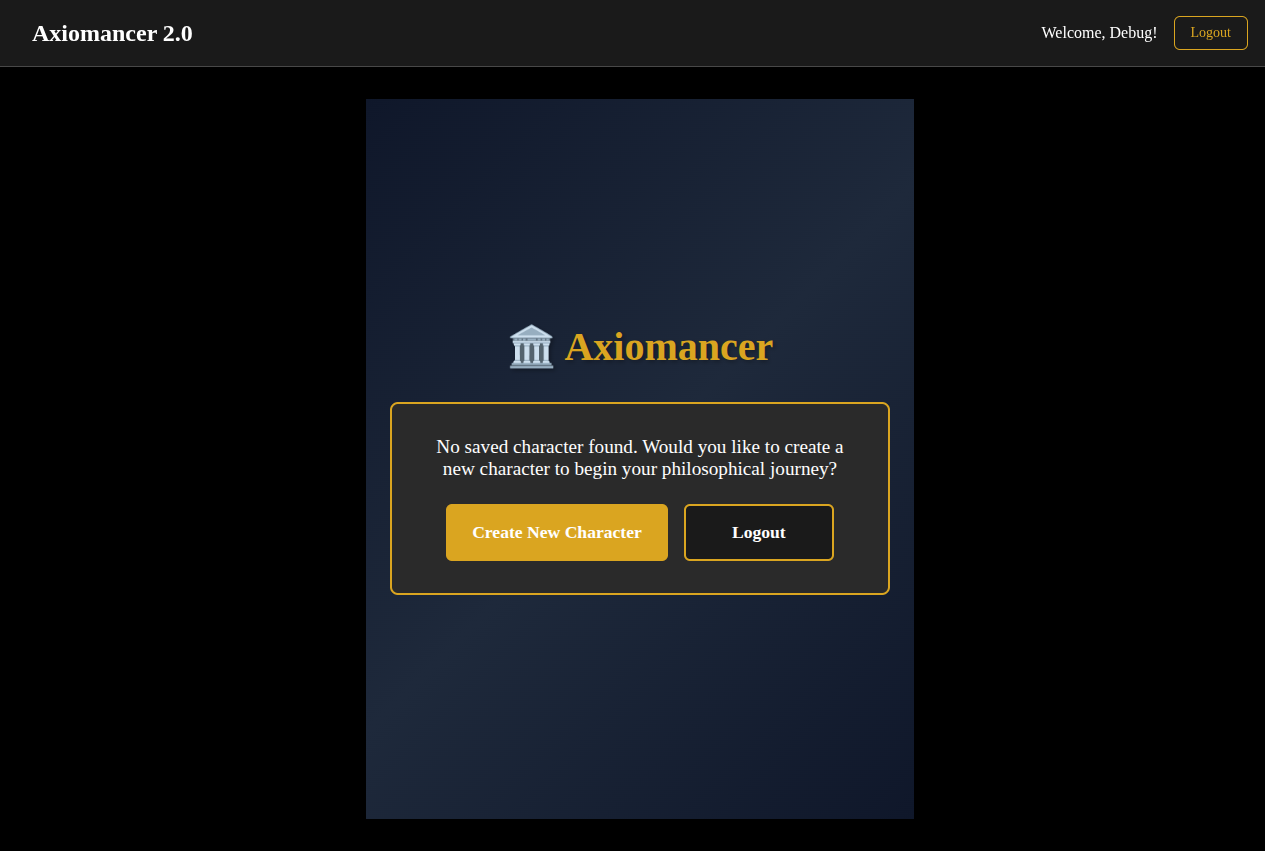
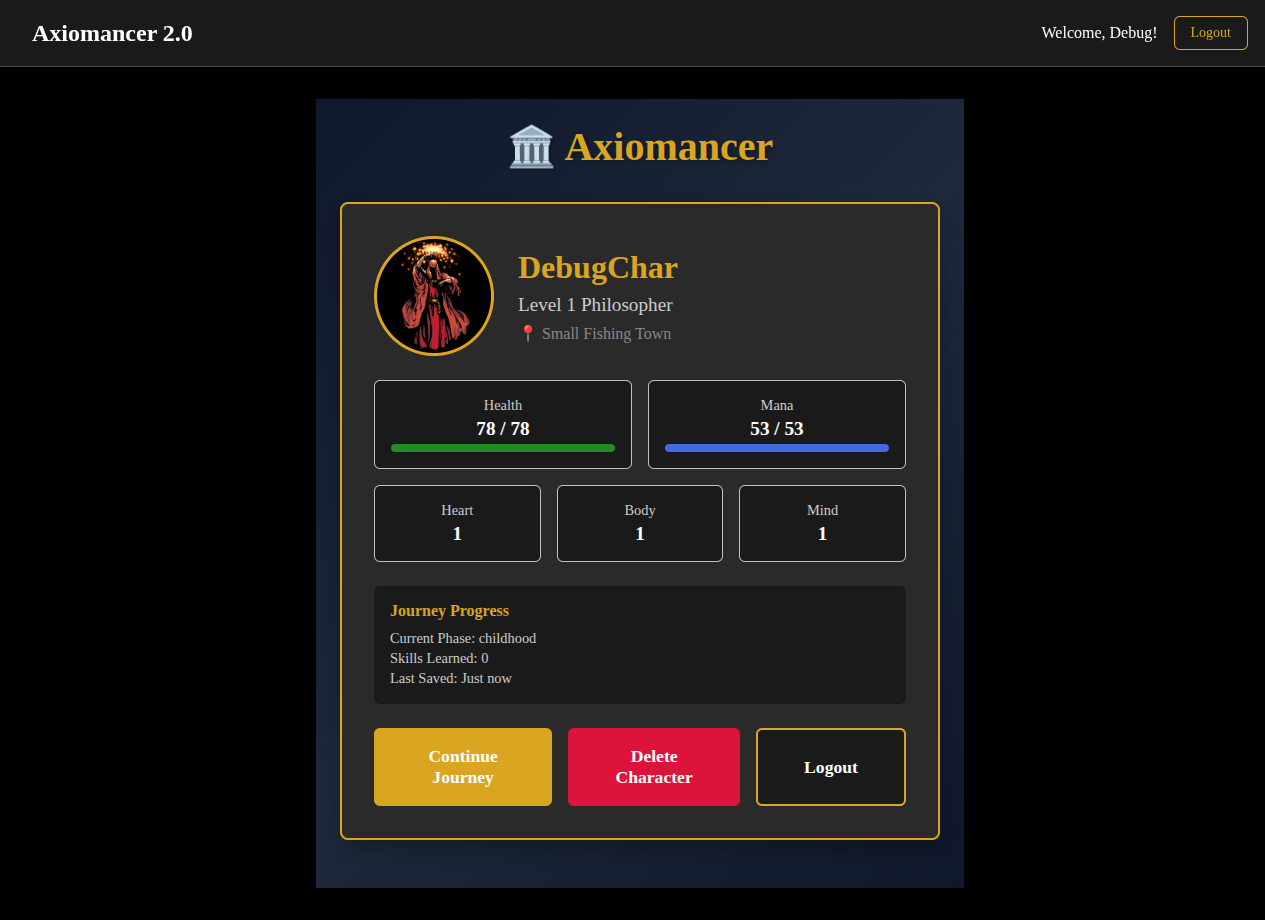
Fix issue with saving and auth

Changed region(s): [[0.0, 0.0, 1.0, 0.9777]]

diff --git a/axiomancer-frontend/playwright-report/index.html b/axiomancer-frontend/playwright-report/index.html
@@ -73,4 +73,4 @@ Error generating stack: `+u.message+`
     <div id='root'></div>
   </body>
 </html>
[2 lines of base64/hex data omitted]

diff --git a/axiomancer-frontend/src/pages/CharacterSelectionPage.tsx b/axiomancer-frontend/src/pages/CharacterSelectionPage.tsx
@@ -401,17 +401,17 @@ export const CharacterSelectionPage: React.FC = () => {
             <div className="stats-row">
               <StatCard>
                 <div className="stat-label">Heart</div>
-                <div className="stat-value">{savedCharacter.character.baseStats.heart}</div>
+                <div className="stat-value">{savedCharacter.character.baseStats?.heart || 10}</div>
               </StatCard>
 
               <StatCard>
                 <div className="stat-label">Body</div>
-                <div className="stat-value">{savedCharacter.character.baseStats.body}</div>
+                <div className="stat-value">{savedCharacter.character.baseStats?.body || 10}</div>
               </StatCard>
 
               <StatCard>
                 <div className="stat-label">Mind</div>
-                <div className="stat-value">{savedCharacter.character.baseStats.mind}</div>
+                <div className="stat-value">{savedCharacter.character.baseStats?.mind || 10}</div>
               </StatCard>
             </div>
           </StatsGrid>

diff --git a/axiomancer-frontend/src/services/auth.service.ts b/axiomancer-frontend/src/services/auth.service.ts
@@ -22,7 +22,7 @@ export const authService = {
   },
 
   async getProfile(): Promise<{ user: any }> {
-    const token = localStorage.getItem('token');
+    const token = localStorage.getItem('axiomancer_token');
     const response = await authApi.get('/profile', {
       headers: {
         Authorization: `Bearer ${token}`,
